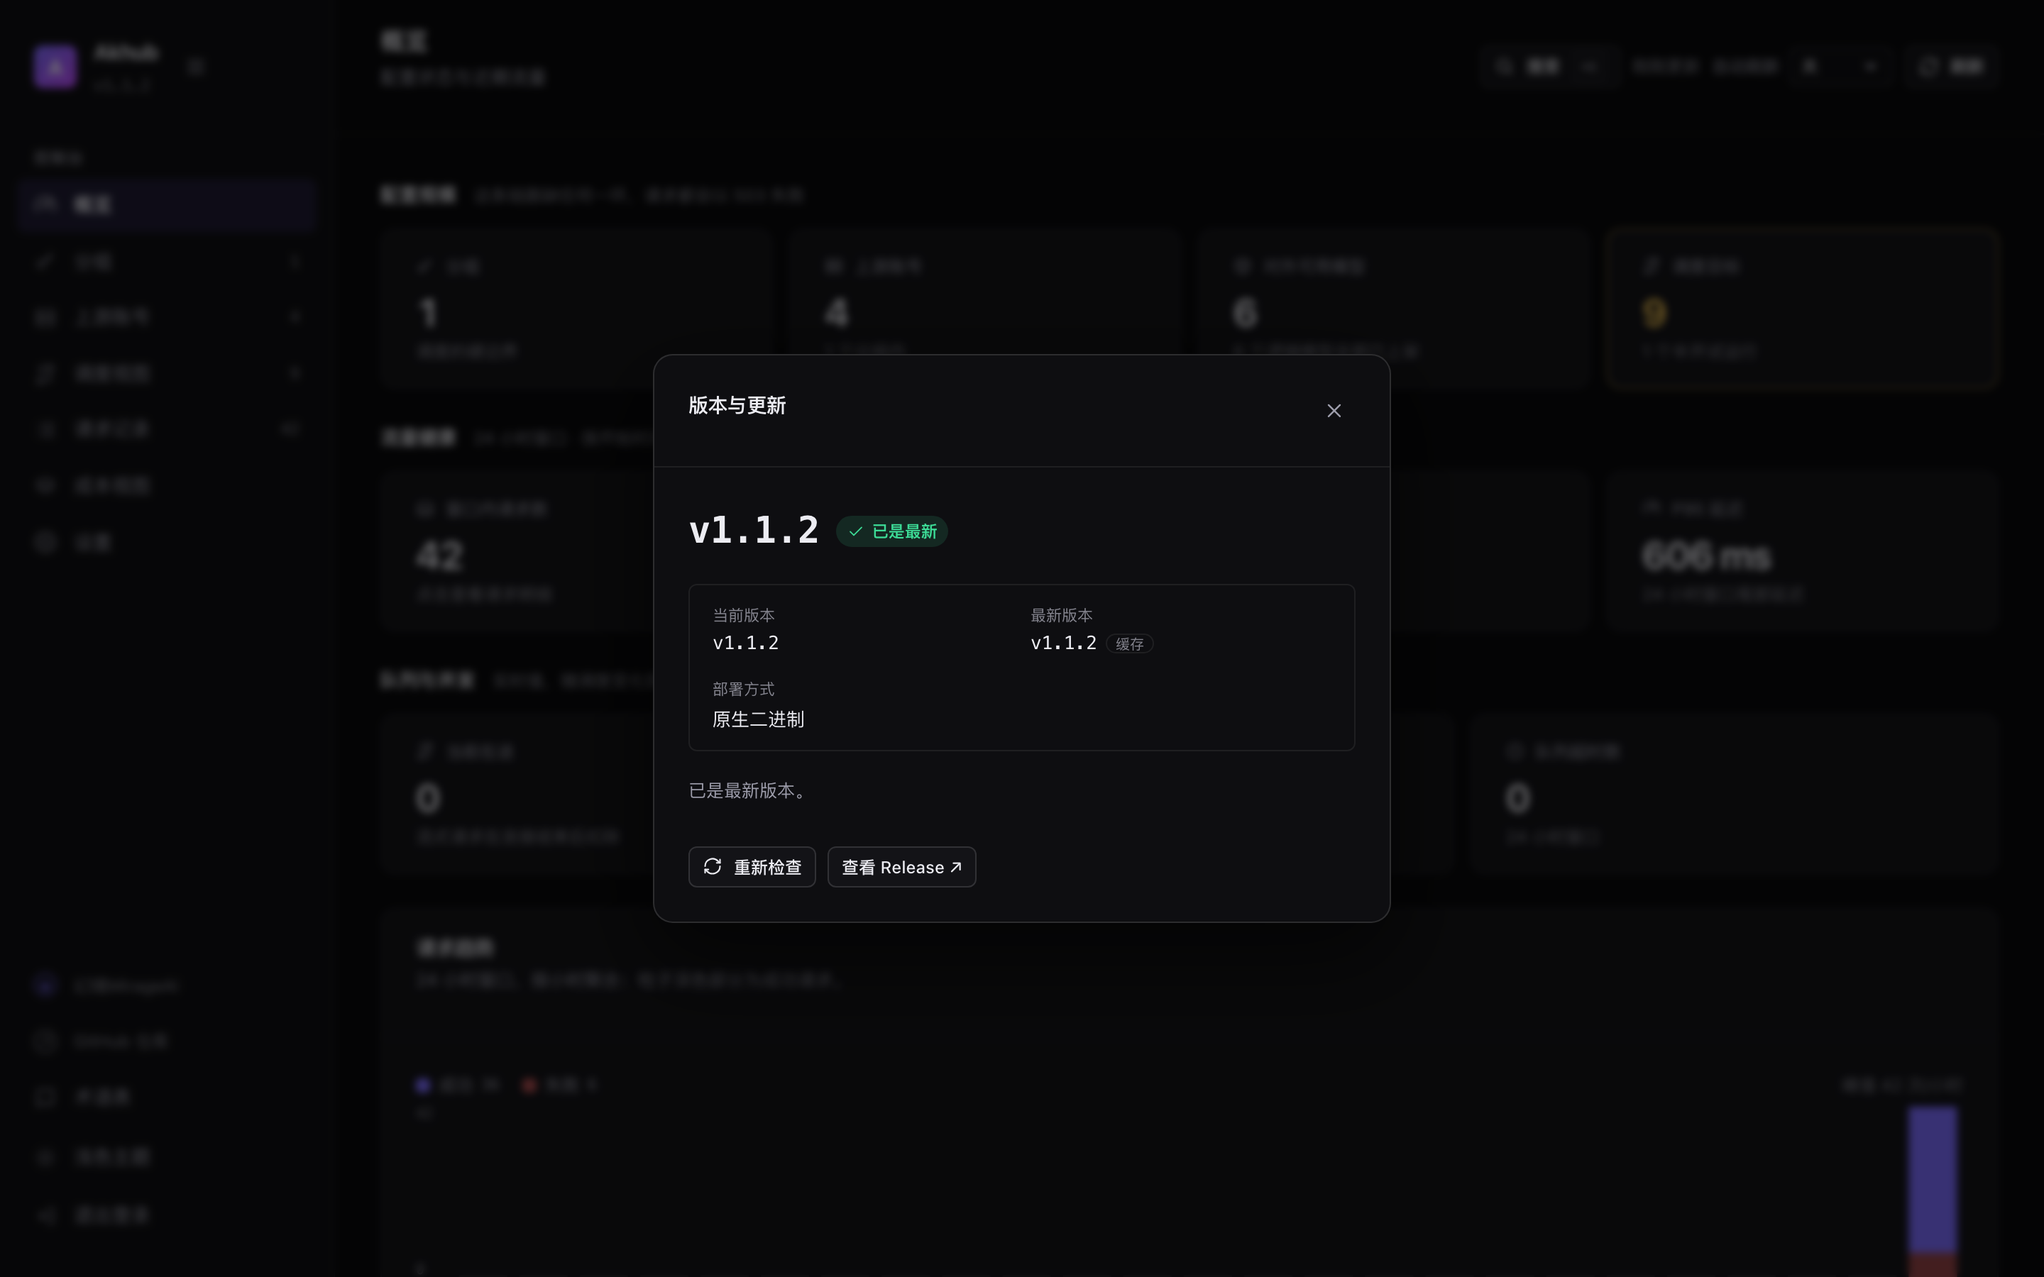
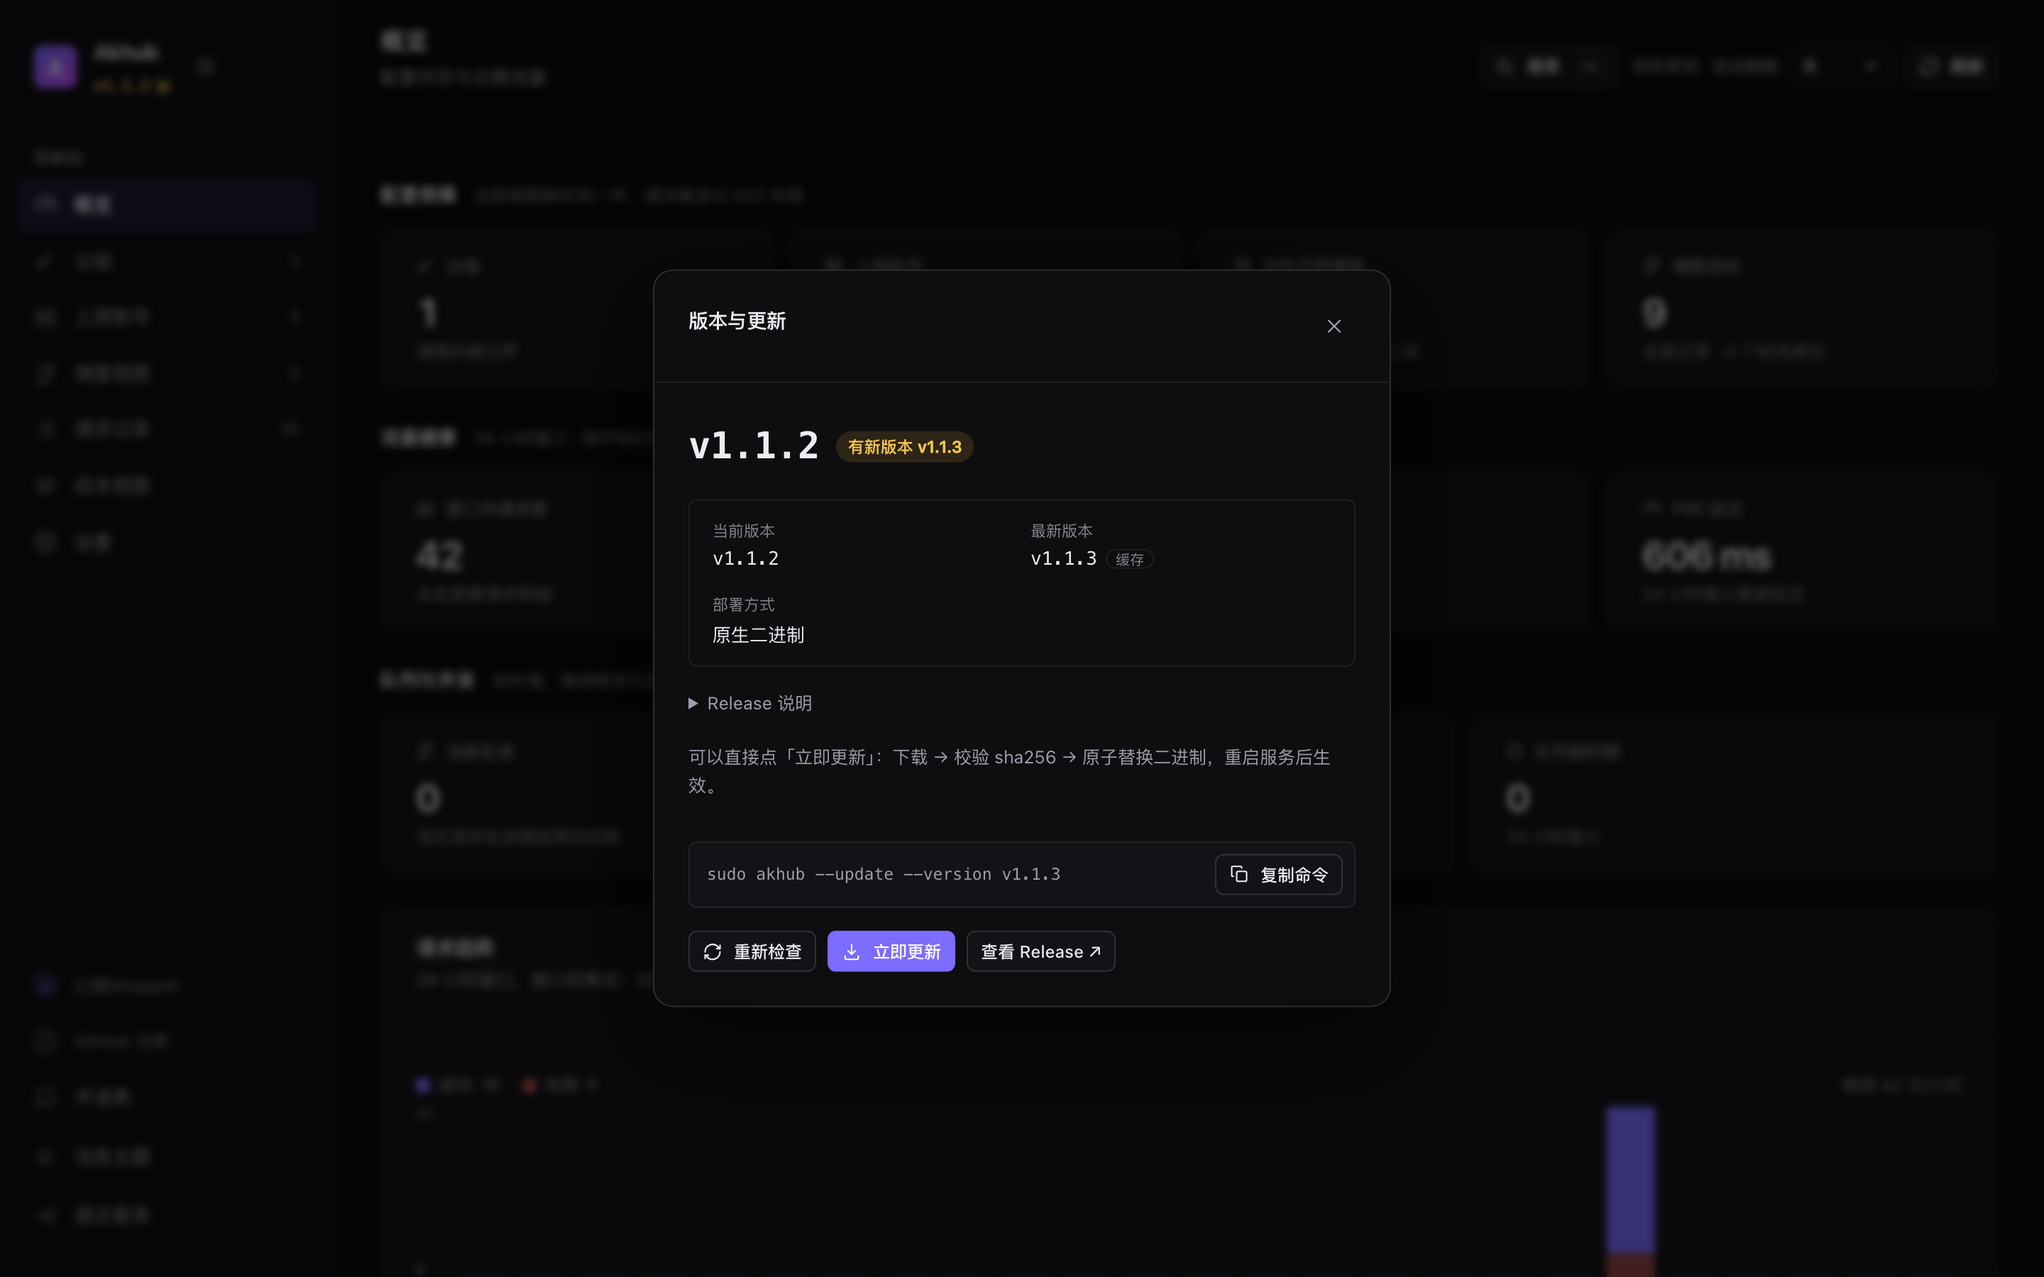
修掉自更新实测发现的两个真问题：下载不重试、中断后永久卡住
拿真实的 v1.1.2 → v1.1.3 走了一遍"点面板更新"，暴露出两处：

- 资产下载只试一次。跨国链路上 GitHub 资产偶发中断（本次实测就遇到读
  5 分钟没有数据），用户看到的就是一句"更新失败"。现在连续重试 3 次，
  读操作加 60 秒停滞检测，总超时从 5 分钟放宽到 15 分钟。
- "更新中"标志在请求 future 被丢弃时不会复位：管理员关掉页面、反向代理
  掐断连接都会让请求 future 被丢弃，服务端于是永久卡在"已经有一个更新
  在进行中"，只能重启服务。改成 Drop 守卫，并把更新放进独立任务里跑：
  客户端断开不再中断已经下了一半的下载，结果以 pending_version 留在状态里。
- 面板改为从状态里读 pending_version：更新期间刷新过页面也能接着重启生效。
- 回归：下载瞬时失败会重试后成功；守卫在中断后释放。

顺带修一个测试假设：部署形态断言原先写死"源码构建"，CARGO_TARGET_DIR
指到别处时会误判，现在按实际形态分支断言。

diff --git a/web/src/components/VersionDialog.tsx b/web/src/components/VersionDialog.tsx
@@ -41,7 +41,6 @@ export function VersionDialog({
   const [updating, setUpdating] = useState(false);
   const [outcome, setOutcome] = useState<UpdateOutcome | null>(null);
   const [restarting, setRestarting] = useState(false);
-  const [pendingRestart, setPendingRestart] = useState(false);
   /** 轮询用的定时器：关闭面板或卸载时必须清掉，否则后台会一直打接口。 */
   const pollTimer = useRef<number | null>(null);
 
@@ -63,7 +62,6 @@ export function VersionDialog({
   useEffect(() => {
     if (!open) return;
     setOutcome(null);
-    setPendingRestart(false);
     void check(false);
   }, [open, check]);
 
@@ -79,7 +77,6 @@ export function VersionDialog({
     try {
       const result = await api.runUpdate();
       setOutcome(result.outcome);
-      setPendingRestart(true);
       toast.success("已更新到 v" + result.outcome.to + "，重启服务后生效");
       // 版本号在「设置」里也跟着变，让外层重新拉一次。
       onUpdated();
@@ -122,6 +119,13 @@ export function VersionDialog({
 
   const hasUpdate = status?.has_update ?? false;
   const backupNote = outcome?.backup ? "（旧版本备份在 " + outcome.backup + "）" : "";
+  /**
+   * 已落盘、等重启生效的版本。
+   *
+   * 除了本次请求的结果，也读服务端状态里的 pending_version：更新期间刷新过
+   * 页面、或者请求被浏览器掐断时，进度不会丢——重新打开面板就能接着重启。
+   */
+  const pendingVersion = outcome?.to ?? status?.pending_version ?? null;
 
   return (
     <Modal open={open} onClose={onClose} title="版本与更新">
@@ -142,11 +146,17 @@ export function VersionDialog({
           ) : null}
         </div>
 
-        {pendingRestart && outcome && (
+        {pendingVersion && (
           <div className="callout callout-info" role="status">
             <span style={{ flex: 1 }}>
-              已把 v{outcome.to} 写进 <span className="mono">{outcome.path}</span>
-              {backupNote}。当前进程仍是 v{outcome.from}，重启服务后才生效。
+              {outcome ? (
+                <>
+                  已把 v{outcome.to} 写进 <span className="mono">{outcome.path}</span>
+                  {backupNote}。当前进程仍是 v{outcome.from}，重启服务后才生效。
+                </>
+              ) : (
+                <>服务端已经把 v{pendingVersion} 写进磁盘，重启服务后生效。</>
+              )}
             </span>
           </div>
         )}
@@ -225,7 +235,7 @@ export function VersionDialog({
           >
             重新检查
           </Button>
-          {hasUpdate && status?.can_self_update && !pendingRestart && (
+          {hasUpdate && status?.can_self_update && !pendingVersion && (
             <Button
               size="sm"
               variant="primary"
@@ -242,7 +252,7 @@ export function VersionDialog({
               {updating ? "更新中…" : "立即更新"}
             </Button>
           )}
-          {pendingRestart && status?.can_restart && (
+          {pendingVersion && status?.can_restart && (
             <Button
               size="sm"
               variant="primary"
@@ -271,7 +281,7 @@ export function VersionDialog({
           )}
         </div>
 
-        {pendingRestart && status && !status.can_restart && (
+        {pendingVersion && status && !status.can_restart && (
           <p className="card-desc">
             没检测到会自动拉起服务的监督进程，请手工重启：
             <span className="mono">

diff --git a/src/update/mod.rs b/src/update/mod.rs
@@ -37,6 +37,17 @@ const FAILURE_TTL: Duration = Duration::from_secs(60);
 const MAX_DOWNLOAD: u64 = 256 * 1024 * 1024;
 /// 检查请求的超时。
 const CHECK_TIMEOUT: Duration = Duration::from_secs(15);
+/// 下载发行包的总超时。
+///
+/// 18 MB 在国际链路上可能要几分钟，卡得太紧会变成"点一下没反应"；这里给足，
+/// 由下面的读超时负责发现"彻底卡住"。
+const DOWNLOAD_TIMEOUT: Duration = Duration::from_secs(900);
+/// 读超时：连续这么久一个字节都没读到，就当链路断了并重试。
+const READ_TIMEOUT: Duration = Duration::from_secs(60);
+/// 建立连接的超时。
+const CONNECT_TIMEOUT: Duration = Duration::from_secs(15);
+/// 下载失败的重试次数。GitHub 资产走 CDN，跨国链路上偶发中断是常态。
+const DOWNLOAD_ATTEMPTS: usize = 3;
 
 /// 当前进程的版本号，与 `--version`、`/health/version` 是同一个字符串。
 pub fn current() -> &'static str {
@@ -275,7 +286,9 @@ impl Registry {
         Self {
             client: reqwest::Client::builder()
                 .user_agent(USER_AGENT)
-                .timeout(Duration::from_secs(300))
+                .connect_timeout(CONNECT_TIMEOUT)
+                .read_timeout(READ_TIMEOUT)
+                .timeout(DOWNLOAD_TIMEOUT)
                 .build()
                 .unwrap_or_else(|_| reqwest::Client::new()),
             api: Mutex::new(api.into()),
@@ -477,16 +490,24 @@ impl Registry {
             .map_err(|error| format!("解析 Release 响应失败：{error}"))
     }
 
+    /// 占住"更新中"这个坑。
+    ///
+    /// 返回的守卫在**被丢弃**时复位标志：管理员关掉页面、反向代理掐断连接都会让
+    /// 请求 future 被丢弃。早期实现把复位写在 await 之后，于是中断一次就永久卡在
+    /// "已经有一个更新在进行中"，只能重启服务——守卫让中断也能正确收尾。
+    fn acquire(&self) -> Result<BusyGuard<'_>, String> {
+        if self.busy.swap(true, Ordering::SeqCst) {
+            return Err("已经有一个更新在进行中，请稍候。".to_string());
+        }
+        Ok(BusyGuard(&self.busy))
+    }
+
     /// 把 `target` 指向的二进制换成最新版（或指定版本）。
     ///
     /// 整个过程只有最后一步 rename 会改动现场，之前的失败都只是白下载一次。
     pub async fn install(&self, target: &Path, version: Option<&str>) -> Result<Outcome, String> {
-        if self.busy.swap(true, Ordering::SeqCst) {
-            return Err("已经有一个更新在进行中，请稍候。".to_string());
-        }
-        let result = self.install_inner(target, version).await;
-        self.busy.store(false, Ordering::SeqCst);
-        result
+        let _guard = self.acquire()?;
+        self.install_inner(target, version).await
     }
 
     async fn install_inner(&self, target: &Path, version: Option<&str>) -> Result<Outcome, String> {
@@ -604,6 +625,15 @@ impl Registry {
     }
 }
 
+/// "更新中"标志的守卫：正常返回、报错、future 被丢弃都会复位。
+struct BusyGuard<'a>(&'a AtomicBool);
+
+impl Drop for BusyGuard<'_> {
+    fn drop(&mut self) {
+        self.0.store(false, Ordering::SeqCst);
+    }
+}
+
 /// 替换成功后的结果。
 #[derive(Debug, Clone, Serialize)]
 pub struct Outcome {
@@ -712,7 +742,30 @@ fn pick_asset<'a>(assets: &'a [Asset], version: &str) -> Option<&'a Asset> {
 
 // ------------------------------------------------------------------ 下载与校验
 
+/// 下载发行包；跨国链路上的偶发中断重试几次再放弃。
+///
+/// 不区分错误类型一律重试：404 这类"地址就是不对"的错误多试两次的代价只是几秒钟，
+/// 而把偶发中断当成最终失败，用户看到的就是"更新失败"四个字。
 async fn download(client: &reqwest::Client, url: &str, path: &Path) -> Result<u64, String> {
+    let mut last = String::new();
+    for attempt in 1..=DOWNLOAD_ATTEMPTS {
+        match download_once(client, url, path).await {
+            Ok(bytes) => return Ok(bytes),
+            Err(error) => {
+                tracing::warn!(attempt, %error, "下载发行包失败");
+                last = error;
+                if attempt < DOWNLOAD_ATTEMPTS {
+                    tokio::time::sleep(Duration::from_secs(attempt as u64 * 2)).await;
+                }
+            }
+        }
+    }
+    Err(format!(
+        "{last}（已重试 {DOWNLOAD_ATTEMPTS} 次；可稍后再试，或在服务器上执行 sudo akhub --update）"
+    ))
+}
+
+async fn download_once(client: &reqwest::Client, url: &str, path: &Path) -> Result<u64, String> {
     use futures::StreamExt as _;
     use tokio::io::AsyncWriteExt as _;
 
@@ -997,6 +1050,20 @@ mod tests {
                 .unwrap_or_default()
                 .contains("docker compose")
         );
+    }
+
+    /// 请求 future 被丢弃（客户端断开、刷新页面）时，busy 必须跟着复位。
+    ///
+    /// 早期实现把复位写在 await 之后：中断一次就永久卡在"已经有一个更新在进行中"，
+    /// 只能重启服务才能再更新。
+    #[test]
+    fn the_busy_flag_is_released_when_the_update_is_interrupted() {
+        let registry = Registry::new("http://127.0.0.1:1", false);
+        {
+            let _guard = registry.acquire().expect("第一次应当拿到坑位");
+            assert!(registry.acquire().is_err(), "更新中不该被第二次占坑");
+        }
+        assert!(registry.acquire().is_ok(), "守卫被丢弃后必须能再次更新");
     }
 
     #[test]

diff --git a/tests/common/mod.rs b/tests/common/mod.rs
@@ -784,20 +784,41 @@ struct GithubState {
     archive: Arc<Vec<u8>>,
     checksums: String,
     hits: Arc<Mutex<usize>>,
+    /// 还需要失败几次资产下载：模拟跨国链路上的偶发中断。
+    asset_failures: Arc<Mutex<usize>>,
 }
 
 impl FakeGithub {
     /// 起一台假 GitHub。archive 是 Release 资产字节，checksums.txt 按它现算。
     pub async fn spawn(tag: &str, archive: Vec<u8>) -> Self {
-        Self::spawn_inner(tag, archive, None).await
+        Self::spawn_inner(tag, archive, None, 0).await
     }
 
     /// 指定 checksums.txt 里那个哈希：传一个错的来验证「校验不过就拒绝更新」。
-    pub async fn spawn_with_checksum(tag: &str, archive: Vec<u8>, checksum: &str) -> Self {
-        Self::spawn_inner(tag, archive, Some(checksum.to_string())).await
+    pub async fn spawn_with_checksum(
+        tag: &str,
+        archive: Vec<u8>,
+        checksum: &str,
+        asset_failures: usize,
+    ) -> Self {
+        Self::spawn_inner(tag, archive, Some(checksum.to_string()), asset_failures).await
     }
 
-    async fn spawn_inner(tag: &str, archive: Vec<u8>, checksum: Option<String>) -> Self {
+    /// 前 `failures` 次资产下载返回 500：验证下载会重试而不是一次失败就放弃。
+    pub async fn spawn_with_transient_failures(
+        tag: &str,
+        archive: Vec<u8>,
+        failures: usize,
+    ) -> Self {
+        Self::spawn_inner(tag, archive, None, failures).await
+    }
+
+    async fn spawn_inner(
+        tag: &str,
+        archive: Vec<u8>,
+        checksum: Option<String>,
+        asset_failures: usize,
+    ) -> Self {
         async fn latest(State(state): State<GithubState>) -> axum::Json<Value> {
             *state.hits.lock().unwrap() += 1;
             axum::Json(release_json(&state.tag, &state.base))
@@ -806,6 +827,14 @@ impl FakeGithub {
             axum::Json(release_json(&state.tag, &state.base))
         }
         async fn asset(State(state): State<GithubState>) -> Response {
+            {
+                let mut remaining = state.asset_failures.lock().unwrap();
+                if *remaining > 0 {
+                    *remaining -= 1;
+                    return (axum::http::StatusCode::BAD_GATEWAY, "upstream cdn hiccup")
+                        .into_response();
+                }
+            }
             (
                 [(axum::http::header::CONTENT_TYPE, "application/gzip")],
                 state.archive.as_ref().clone(),
@@ -840,6 +869,7 @@ impl FakeGithub {
             archive: Arc::new(archive),
             checksums: checksums.clone(),
             hits: Arc::clone(&hits),
+            asset_failures: Arc::new(Mutex::new(asset_failures)),
         };
         let app = Router::new()
             .route("/releases/latest", get(latest))

diff --git a/tests/update_api.rs b/tests/update_api.rs
@@ -76,17 +76,25 @@ async fn a_newer_release_is_reported_and_the_answer_is_cached() {
         "https://example.invalid/releases/v9.9.9"
     );
 
-    // 这个测试进程跑在 target/ 下，只可能是源码构建：任何情况下都不该出现
-    // 「立即更新」入口，取而代之的是 git pull 提示。
-    assert_eq!(status["deploy"], "source");
-    assert_eq!(status["can_self_update"], false);
-    assert!(
-        status["update_command"]
-            .as_str()
-            .unwrap_or_default()
-            .contains("git pull"),
-        "源码构建要给出可复制的升级命令：{status}"
-    );
+    // 部署形态取决于测试进程所在路径：默认的 target/ 下判成源码构建，
+    // CARGO_TARGET_DIR 指到别处时可能判成原生二进制。两种形态都必须给出可复制的
+    // 升级命令；至于"点了会不会真的替换测试二进制"，由下面那条带守卫的用例负责
+    // 拦住——它一旦发现进程被判成二进制部署就直接跳过。
+    let deploy = status["deploy"].as_str().unwrap_or_default().to_string();
+    let command = status["update_command"].as_str().unwrap_or_default();
+    match deploy.as_str() {
+        "source" => {
+            assert_eq!(
+                status["can_self_update"], false,
+                "源码构建不该出现自更新入口：{status}"
+            );
+            assert!(command.contains("git pull"), "源码构建要给出升级命令：{status}");
+        }
+        _ => assert!(
+            command.contains("sudo akhub --update"),
+            "二进制部署要给出升级命令：{status}"
+        ),
+    }
 
     // 第二次必须是缓存命中：GitHub 匿名限流只有 60 次/小时，不能任人连点。
     let again = status_of(&base, &client, "").await;

diff --git a/tests/update_install.rs b/tests/update_install.rs
@@ -66,11 +66,29 @@ async fn a_verified_release_replaces_the_binary_and_keeps_a_backup() {
     );
 }
 
+/// 跨国链路上资产下载偶发中断是常态：一次失败不能直接判定"更新失败"。
+#[tokio::test]
+async fn a_transient_download_failure_is_retried() {
+    let archive = make_release_archive("9.9.9", NEW_BINARY);
+    let github = FakeGithub::spawn_with_transient_failures("v9.9.9", archive, 1).await;
+    let dir = tempfile::tempdir().unwrap();
+    let target = write_old_binary(dir.path());
+
+    let registry = Registry::new(github.base_url.clone(), false).with_deploy(Deploy::Binary);
+    let outcome = registry
+        .install(&target, None)
+        .await
+        .expect("第一次下载失败应当被重试，第二次成功");
+    assert_eq!(outcome.to, "9.9.9");
+    assert_eq!(std::fs::read(&target).unwrap(), NEW_BINARY);
+    assert!(leftovers(dir.path()).is_empty());
+}
+
 #[tokio::test]
 async fn a_bad_checksum_stops_the_update_before_anything_is_written() {
     let archive = make_release_archive("9.9.9", NEW_BINARY);
     // 形状合法但内容必然对不上的哈希：验证的是"校验不过就停"，而不是"清单里没有这一行"。
-    let github = FakeGithub::spawn_with_checksum("v9.9.9", archive, &"0".repeat(64)).await;
+    let github = FakeGithub::spawn_with_checksum("v9.9.9", archive, &"0".repeat(64), 0).await;
     let dir = tempfile::tempdir().unwrap();
     let target = write_old_binary(dir.path());
 

diff --git a/src/admin/system.rs b/src/admin/system.rs
@@ -47,9 +47,15 @@ pub async fn update_status(
 /// 只对原生二进制部署有效；容器、源码构建与 Windows 会带着明确的替代命令报错。
 pub async fn run_update(State(state): State<SharedState>, _: Admin) -> AdminResult<Json<Value>> {
     let target = crate::update::exe_path();
-    match state.runtime.update.install(&target, None).await {
-        Ok(outcome) => Ok(Json(json!({ "outcome": outcome }))),
-        Err(message) => Err(AdminError::bad_request(message)),
+    // 放到独立任务里跑：管理员关掉页面、反向代理掐断连接都会让请求 future 被丢弃，
+    // 不能因此中断已经下了一半的更新。任务本身不随请求取消，结果即使没人接，
+    // 也会以 pending_version 的形式留在状态里，下一次打开面板就能看到。
+    let updater = Arc::clone(&state);
+    let handle = tokio::spawn(async move { updater.runtime.update.install(&target, None).await });
+    match handle.await {
+        Ok(Ok(outcome)) => Ok(Json(json!({ "outcome": outcome }))),
+        Ok(Err(message)) => Err(AdminError::bad_request(message)),
+        Err(error) => Err(AdminError::internal(format!("更新任务异常结束：{error}"))),
     }
 }
 
